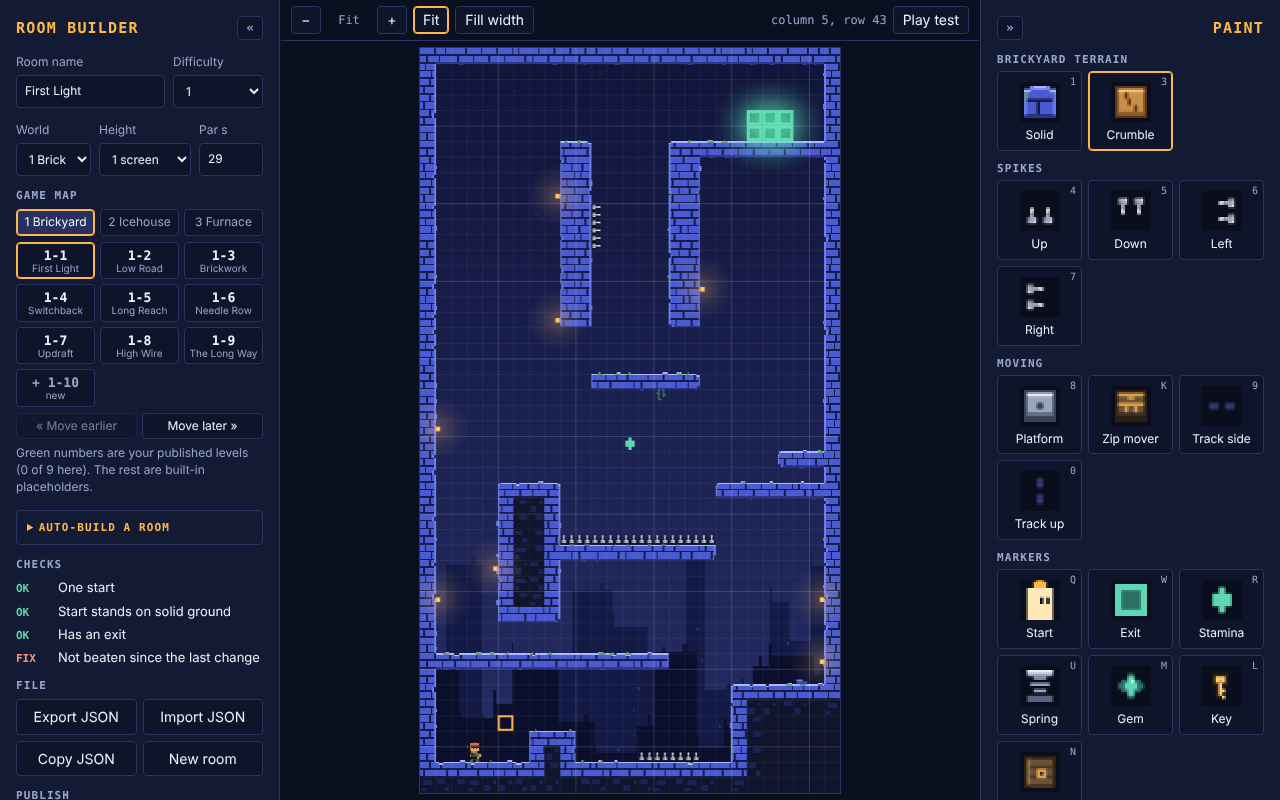
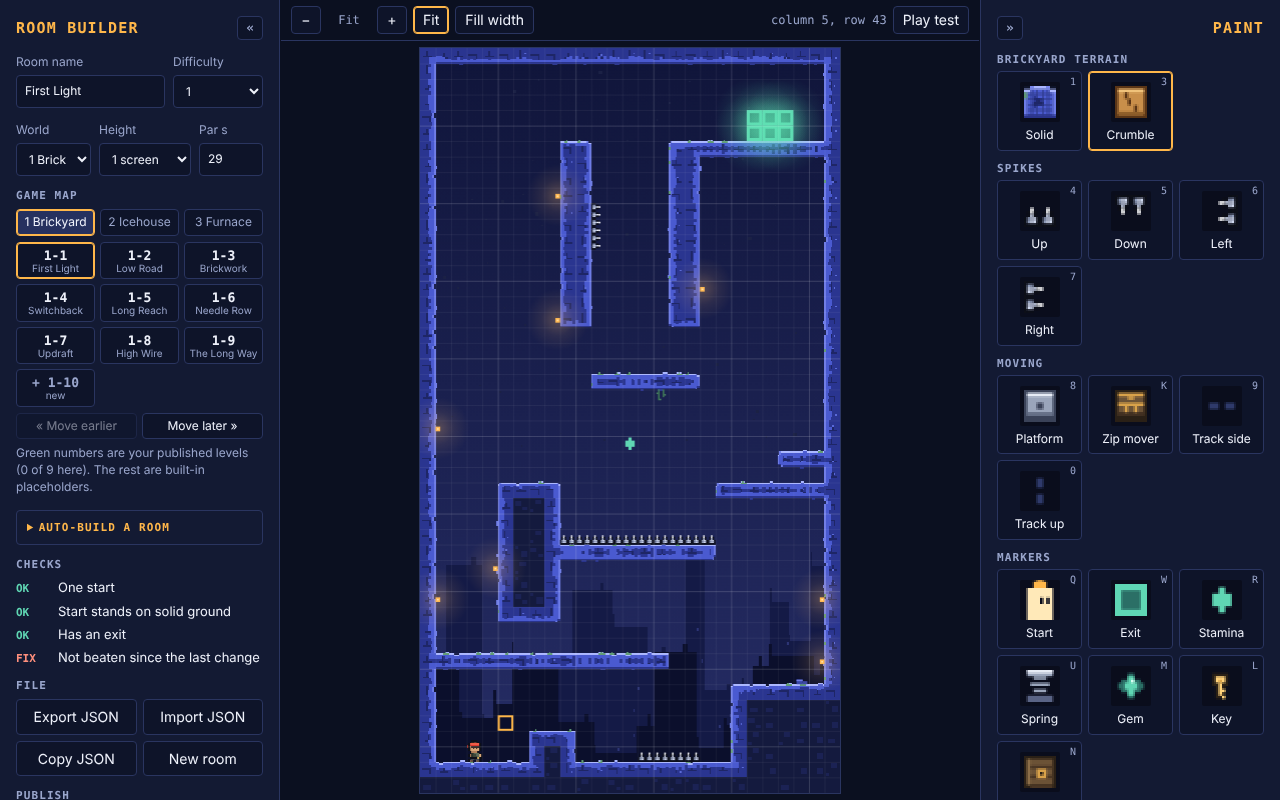
Walls drawn the Celeste way: lit rim, wandering face band, darker interior with sparse marks
The edge tile is no longer a repeating brick grid. It has the one pixel
rim, then a band of face colour two to five pixels deep whose inner edge
wanders along the wall, then a darker interior carrying one or two marks
per tile from four patterns: stone joints in the Brickyard, hairline
cracks and frost glints in the Icehouse, cracks with the odd ember in the
Furnace. Interior tiles get mottled blobs instead of fragments.

Claude-Session: https://claude.ai/code/session_01NZkKt2otoYDRNuWNpVBUzY

diff --git a/builder/index.html b/builder/index.html
@@ -250,9 +250,9 @@
   // so repeats do not show, and a ring of sparse "infill" detail just inside the edge. Each terrain type is its
   // own tileset with the same layout, so new looks can be swapped in without touching the rules.
   var TILESETS = {
-    brick: { face: '#4a5ad0', hi: '#aab6ff', side: '#6d7be6', lo: '#2a348c', line: '#161c4a', core: '#10142c', infill: '#1b2254', moss: '#5f9a74' },
-    frost: { face: '#587a9e', hi: '#f4fcff', side: '#86a9c9', lo: '#2a4361', line: '#172a41', core: '#0b1826', infill: '#14283c', snow: '#f4fcff', snowLo: '#b9d9ec', icicle: '#a8d6ee' },
-    ember: { face: '#8c3b2c', hi: '#ffb48c', side: '#b9573e', lo: '#4c1c15', line: '#2b0f0c', core: '#180a09', infill: '#2c1311', soot: '#2b0f0c', drip: '#d4531f', dripHi: '#ff9a3c' },
+    brick: { face: '#4a5ad0', deep: '#2a3590', hi: '#aab6ff', side: '#6d7be6', lo: '#2a348c', line: '#1e2666', core: '#141a3e', infill: '#1b2254', mark: '#5a6ad8', moss: '#5f9a74' },
+    frost: { face: '#587a9e', deep: '#345070', hi: '#f4fcff', side: '#86a9c9', lo: '#2a4361', line: '#243d58', core: '#0e1f33', infill: '#14283c', mark: '#7a9ab8', snow: '#f4fcff', snowLo: '#b9d9ec', icicle: '#a8d6ee' },
+    ember: { face: '#8c3b2c', deep: '#542016', hi: '#ffb48c', side: '#b9573e', lo: '#4c1c15', line: '#3a1410', core: '#1c0c0a', infill: '#2c1311', mark: '#a84a30', soot: '#2b0f0c', drip: '#d4531f', dripHi: '#ff9a3c' },
     ice:   { face: '#86cdee', hi: '#f2fdff', side: '#b9e8fa', lo: '#3f86bd', line: '#5eb0dd', core: '#102c44', infill: '#1b4866' }
   };
   var SOLID_KIND = { '#': 'brick', 'I': 'ice' };
@@ -270,13 +270,14 @@
       b.fillStyle = S.core; b.fillRect(x, y, 10, 10);
       var near = false;
       for (var dy = -2; dy <= 2 && !near; dy++) for (var dx = -2; dx <= 2; dx++) if (!solidAt(c + dx, r + dy)) { near = true; break; }
-      if (near && v > 0.15) { // infill ring: a fragment or two of the edge pattern, in a colour close to the fill
+      if (v > 0.3) {                                        // mottle: a blob or two of the lighter infill colour, denser near the edge
         b.fillStyle = S.infill;
-        var k = Math.floor(v * 4);
-        if (k === 0) { b.fillRect(x + 1, y + 1, 5, 3); b.fillRect(x + 6, y + 6, 3, 3); }
-        else if (k === 1) { b.fillRect(x + 4, y + 1, 5, 3); }
-        else if (k === 2) { b.fillRect(x + 1, y + 5, 4, 4); b.fillRect(x + 7, y + 2, 2, 2); }
-        else { b.fillRect(x + 2, y + 2, 6, 3); b.fillRect(x + 1, y + 7, 3, 2); }
+        var k = Math.floor(v * 5);
+        if (k === 1) { b.fillRect(x + 1, y + 2, 4, 3); b.fillRect(x + 6, y + 6, 3, 2); }
+        else if (k === 2) { b.fillRect(x + 4, y + 1, 4, 3); b.fillRect(x + 1, y + 7, 2, 2); }
+        else if (k === 3) { b.fillRect(x + 2, y + 5, 5, 3); }
+        else { b.fillRect(x + 5, y + 4, 4, 4); if (near) b.fillRect(x + 1, y + 1, 2, 2); }
+        if (!near && v > 0.6) { b.fillStyle = S.core; b.fillRect(x + 3, y + 3, 2, 2); }   // deeper in, the blobs thin out
       }
       return;
     }
@@ -290,11 +291,35 @@
       var gx = v < 0.34 ? 2 : (v < 0.67 ? 5 : 3);
       b.fillRect(x + gx + 1, y + 2, 1, 1); b.fillRect(x + gx, y + 3, 1, 1);
     } else {
-      b.fillStyle = S.line; b.fillRect(x, y, 10, 10);       // mortar, then two courses of brick with the joints shifted per variant
-      b.fillStyle = S.face;
-      var j1 = v < 0.34 ? 9 : (v < 0.67 ? 6 : 3), j2 = v < 0.34 ? 4 : (v < 0.67 ? 2 : 7);
-      b.fillRect(x, y, j1, 4); if (j1 < 9) b.fillRect(x + j1 + 1, y, 9 - j1, 4);
-      b.fillRect(x, y + 5, j2, 4); b.fillRect(x + j2 + 1, y + 5, 9 - j2, 4);
+      // Celeste-style edge tile: a lit rim, a band of face colour whose inner edge wanders, then the darker interior
+      // with one or two marks per tile (a mortar joint, a frost fleck, a crack) instead of a repeating pattern.
+      var cUL = !solidAt(c - 1, r - 1), cUR = !solidAt(c + 1, r - 1), cDL = !solidAt(c - 1, r + 1), cDR = !solidAt(c + 1, r + 1);
+      var t0 = 2 + Math.floor(v * 2), px, py, deep = [];
+      for (py = 0; py < 10; py++) for (px = 0; px < 10; px++) {
+        var d = 99;
+        if (up) d = Math.min(d, py); if (dn) d = Math.min(d, 9 - py); if (lf) d = Math.min(d, px); if (rt) d = Math.min(d, 9 - px);
+        if (cUL && !up && !lf) d = Math.min(d, Math.max(px, py)); if (cUR && !up && !rt) d = Math.min(d, Math.max(9 - px, py));
+        if (cDL && !dn && !lf) d = Math.min(d, Math.max(px, 9 - py)); if (cDR && !dn && !rt) d = Math.min(d, Math.max(9 - px, 9 - py));
+        var along = (up || dn) ? px : py, t = t0 + Math.floor(tileHash(c * 3 + (along >> 1), r * 5 + 1) * 3);   // 2 to 5 px, wandering along the edge
+        var isDeep = d >= t; deep.push(isDeep);
+        b.fillStyle = isDeep ? S.deep : S.face;
+        b.fillRect(x + px, y + py, 1, 1);
+      }
+      // a mark or two per tile, only in the interior band, in one of four patterns so no two tiles repeat side by side
+      var k = Math.floor(v * 4), marks = [], mi;
+      if (kind === 'brick') {                               // joints of large stones
+        marks = k === 0 ? [[2, 5, 6, 1], [4, 2, 1, 3]] : k === 1 ? [[1, 4, 5, 1], [6, 4, 1, 4]] : k === 2 ? [[3, 6, 5, 1], [5, 3, 1, 3]] : [[4, 1, 1, 6]];
+      } else if (kind === 'frost') {                        // hairline cracks and a frost fleck
+        marks = k === 0 ? [[3, 4, 1, 3], [4, 7, 2, 1]] : k === 1 ? [[2, 5, 3, 1], [6, 3, 1, 2]] : k === 2 ? [[5, 2, 1, 4]] : [[3, 6, 4, 1]];
+      } else {                                              // cracks running down through the rock
+        marks = k === 0 ? [[3, 2, 1, 3], [4, 5, 1, 3]] : k === 1 ? [[6, 3, 1, 2], [5, 5, 1, 3], [4, 8, 1, 1]] : k === 2 ? [[2, 4, 3, 1], [5, 5, 1, 2]] : [[6, 2, 1, 5]];
+      }
+      b.fillStyle = S.line;
+      for (mi = 0; mi < marks.length; mi++) { var m = marks[mi]; for (py = m[1]; py < m[1] + m[3]; py++) for (px = m[0]; px < m[0] + m[2]; px++) if (deep[py * 10 + px]) b.fillRect(x + px, y + py, 1, 1); }
+      if (v > 0.55) {                                       // a lighter fleck: a worn stone face, a frost glint, an ember in the crack
+        var fx = 2 + Math.floor(v * 6), fy = 3 + Math.floor((v * 13) % 4);
+        if (deep[fy * 10 + fx]) { b.fillStyle = kind === 'ember' && v > 0.85 ? S.dripHi : S.mark; b.fillRect(x + fx, y + fy, 1, 1); }
+      }
     }
     // one-pixel edge light: bright on top, dimmer on the sides, dark underneath
     if (lf) { b.fillStyle = S.side; b.fillRect(x, y, 1, 10); }

diff --git a/index.html b/index.html
@@ -58,9 +58,9 @@
   // so repeats do not show, and a ring of sparse "infill" detail just inside the edge. Each terrain type is its
   // own tileset with the same layout, so new looks can be swapped in without touching the rules.
   var TILESETS = {
-    brick: { face: '#4a5ad0', hi: '#aab6ff', side: '#6d7be6', lo: '#2a348c', line: '#161c4a', core: '#10142c', infill: '#1b2254', moss: '#5f9a74' },
-    frost: { face: '#587a9e', hi: '#f4fcff', side: '#86a9c9', lo: '#2a4361', line: '#172a41', core: '#0b1826', infill: '#14283c', snow: '#f4fcff', snowLo: '#b9d9ec', icicle: '#a8d6ee' },
-    ember: { face: '#8c3b2c', hi: '#ffb48c', side: '#b9573e', lo: '#4c1c15', line: '#2b0f0c', core: '#180a09', infill: '#2c1311', soot: '#2b0f0c', drip: '#d4531f', dripHi: '#ff9a3c' },
+    brick: { face: '#4a5ad0', deep: '#2a3590', hi: '#aab6ff', side: '#6d7be6', lo: '#2a348c', line: '#1e2666', core: '#141a3e', infill: '#1b2254', mark: '#5a6ad8', moss: '#5f9a74' },
+    frost: { face: '#587a9e', deep: '#345070', hi: '#f4fcff', side: '#86a9c9', lo: '#2a4361', line: '#243d58', core: '#0e1f33', infill: '#14283c', mark: '#7a9ab8', snow: '#f4fcff', snowLo: '#b9d9ec', icicle: '#a8d6ee' },
+    ember: { face: '#8c3b2c', deep: '#542016', hi: '#ffb48c', side: '#b9573e', lo: '#4c1c15', line: '#3a1410', core: '#1c0c0a', infill: '#2c1311', mark: '#a84a30', soot: '#2b0f0c', drip: '#d4531f', dripHi: '#ff9a3c' },
     ice:   { face: '#86cdee', hi: '#f2fdff', side: '#b9e8fa', lo: '#3f86bd', line: '#5eb0dd', core: '#102c44', infill: '#1b4866' }
   };
   var SOLID_KIND = { '#': 'brick', 'I': 'ice' };
@@ -78,13 +78,14 @@
       b.fillStyle = S.core; b.fillRect(x, y, 10, 10);
       var near = false;
       for (var dy = -2; dy <= 2 && !near; dy++) for (var dx = -2; dx <= 2; dx++) if (!solidAt(c + dx, r + dy)) { near = true; break; }
-      if (near && v > 0.15) { // infill ring: a fragment or two of the edge pattern, in a colour close to the fill
+      if (v > 0.3) {                                        // mottle: a blob or two of the lighter infill colour, denser near the edge
         b.fillStyle = S.infill;
-        var k = Math.floor(v * 4);
-        if (k === 0) { b.fillRect(x + 1, y + 1, 5, 3); b.fillRect(x + 6, y + 6, 3, 3); }
-        else if (k === 1) { b.fillRect(x + 4, y + 1, 5, 3); }
-        else if (k === 2) { b.fillRect(x + 1, y + 5, 4, 4); b.fillRect(x + 7, y + 2, 2, 2); }
-        else { b.fillRect(x + 2, y + 2, 6, 3); b.fillRect(x + 1, y + 7, 3, 2); }
+        var k = Math.floor(v * 5);
+        if (k === 1) { b.fillRect(x + 1, y + 2, 4, 3); b.fillRect(x + 6, y + 6, 3, 2); }
+        else if (k === 2) { b.fillRect(x + 4, y + 1, 4, 3); b.fillRect(x + 1, y + 7, 2, 2); }
+        else if (k === 3) { b.fillRect(x + 2, y + 5, 5, 3); }
+        else { b.fillRect(x + 5, y + 4, 4, 4); if (near) b.fillRect(x + 1, y + 1, 2, 2); }
+        if (!near && v > 0.6) { b.fillStyle = S.core; b.fillRect(x + 3, y + 3, 2, 2); }   // deeper in, the blobs thin out
       }
       return;
     }
@@ -98,11 +99,35 @@
       var gx = v < 0.34 ? 2 : (v < 0.67 ? 5 : 3);
       b.fillRect(x + gx + 1, y + 2, 1, 1); b.fillRect(x + gx, y + 3, 1, 1);
     } else {
-      b.fillStyle = S.line; b.fillRect(x, y, 10, 10);       // mortar, then two courses of brick with the joints shifted per variant
-      b.fillStyle = S.face;
-      var j1 = v < 0.34 ? 9 : (v < 0.67 ? 6 : 3), j2 = v < 0.34 ? 4 : (v < 0.67 ? 2 : 7);
-      b.fillRect(x, y, j1, 4); if (j1 < 9) b.fillRect(x + j1 + 1, y, 9 - j1, 4);
-      b.fillRect(x, y + 5, j2, 4); b.fillRect(x + j2 + 1, y + 5, 9 - j2, 4);
+      // Celeste-style edge tile: a lit rim, a band of face colour whose inner edge wanders, then the darker interior
+      // with one or two marks per tile (a mortar joint, a frost fleck, a crack) instead of a repeating pattern.
+      var cUL = !solidAt(c - 1, r - 1), cUR = !solidAt(c + 1, r - 1), cDL = !solidAt(c - 1, r + 1), cDR = !solidAt(c + 1, r + 1);
+      var t0 = 2 + Math.floor(v * 2), px, py, deep = [];
+      for (py = 0; py < 10; py++) for (px = 0; px < 10; px++) {
+        var d = 99;
+        if (up) d = Math.min(d, py); if (dn) d = Math.min(d, 9 - py); if (lf) d = Math.min(d, px); if (rt) d = Math.min(d, 9 - px);
+        if (cUL && !up && !lf) d = Math.min(d, Math.max(px, py)); if (cUR && !up && !rt) d = Math.min(d, Math.max(9 - px, py));
+        if (cDL && !dn && !lf) d = Math.min(d, Math.max(px, 9 - py)); if (cDR && !dn && !rt) d = Math.min(d, Math.max(9 - px, 9 - py));
+        var along = (up || dn) ? px : py, t = t0 + Math.floor(tileHash(c * 3 + (along >> 1), r * 5 + 1) * 3);   // 2 to 5 px, wandering along the edge
+        var isDeep = d >= t; deep.push(isDeep);
+        b.fillStyle = isDeep ? S.deep : S.face;
+        b.fillRect(x + px, y + py, 1, 1);
+      }
+      // a mark or two per tile, only in the interior band, in one of four patterns so no two tiles repeat side by side
+      var k = Math.floor(v * 4), marks = [], mi;
+      if (kind === 'brick') {                               // joints of large stones
+        marks = k === 0 ? [[2, 5, 6, 1], [4, 2, 1, 3]] : k === 1 ? [[1, 4, 5, 1], [6, 4, 1, 4]] : k === 2 ? [[3, 6, 5, 1], [5, 3, 1, 3]] : [[4, 1, 1, 6]];
+      } else if (kind === 'frost') {                        // hairline cracks and a frost fleck
+        marks = k === 0 ? [[3, 4, 1, 3], [4, 7, 2, 1]] : k === 1 ? [[2, 5, 3, 1], [6, 3, 1, 2]] : k === 2 ? [[5, 2, 1, 4]] : [[3, 6, 4, 1]];
+      } else {                                              // cracks running down through the rock
+        marks = k === 0 ? [[3, 2, 1, 3], [4, 5, 1, 3]] : k === 1 ? [[6, 3, 1, 2], [5, 5, 1, 3], [4, 8, 1, 1]] : k === 2 ? [[2, 4, 3, 1], [5, 5, 1, 2]] : [[6, 2, 1, 5]];
+      }
+      b.fillStyle = S.line;
+      for (mi = 0; mi < marks.length; mi++) { var m = marks[mi]; for (py = m[1]; py < m[1] + m[3]; py++) for (px = m[0]; px < m[0] + m[2]; px++) if (deep[py * 10 + px]) b.fillRect(x + px, y + py, 1, 1); }
+      if (v > 0.55) {                                       // a lighter fleck: a worn stone face, a frost glint, an ember in the crack
+        var fx = 2 + Math.floor(v * 6), fy = 3 + Math.floor((v * 13) % 4);
+        if (deep[fy * 10 + fx]) { b.fillStyle = kind === 'ember' && v > 0.85 ? S.dripHi : S.mark; b.fillRect(x + fx, y + fy, 1, 1); }
+      }
     }
     // one-pixel edge light: bright on top, dimmer on the sides, dark underneath
     if (lf) { b.fillStyle = S.side; b.fillRect(x, y, 1, 10); }

diff --git a/src/shared-tiles.js b/src/shared-tiles.js
@@ -4,9 +4,9 @@
   // so repeats do not show, and a ring of sparse "infill" detail just inside the edge. Each terrain type is its
   // own tileset with the same layout, so new looks can be swapped in without touching the rules.
   var TILESETS = {
-    brick: { face: '#4a5ad0', hi: '#aab6ff', side: '#6d7be6', lo: '#2a348c', line: '#161c4a', core: '#10142c', infill: '#1b2254', moss: '#5f9a74' },
-    frost: { face: '#587a9e', hi: '#f4fcff', side: '#86a9c9', lo: '#2a4361', line: '#172a41', core: '#0b1826', infill: '#14283c', snow: '#f4fcff', snowLo: '#b9d9ec', icicle: '#a8d6ee' },
-    ember: { face: '#8c3b2c', hi: '#ffb48c', side: '#b9573e', lo: '#4c1c15', line: '#2b0f0c', core: '#180a09', infill: '#2c1311', soot: '#2b0f0c', drip: '#d4531f', dripHi: '#ff9a3c' },
+    brick: { face: '#4a5ad0', deep: '#2a3590', hi: '#aab6ff', side: '#6d7be6', lo: '#2a348c', line: '#1e2666', core: '#141a3e', infill: '#1b2254', mark: '#5a6ad8', moss: '#5f9a74' },
+    frost: { face: '#587a9e', deep: '#345070', hi: '#f4fcff', side: '#86a9c9', lo: '#2a4361', line: '#243d58', core: '#0e1f33', infill: '#14283c', mark: '#7a9ab8', snow: '#f4fcff', snowLo: '#b9d9ec', icicle: '#a8d6ee' },
+    ember: { face: '#8c3b2c', deep: '#542016', hi: '#ffb48c', side: '#b9573e', lo: '#4c1c15', line: '#3a1410', core: '#1c0c0a', infill: '#2c1311', mark: '#a84a30', soot: '#2b0f0c', drip: '#d4531f', dripHi: '#ff9a3c' },
     ice:   { face: '#86cdee', hi: '#f2fdff', side: '#b9e8fa', lo: '#3f86bd', line: '#5eb0dd', core: '#102c44', infill: '#1b4866' }
   };
   var SOLID_KIND = { '#': 'brick', 'I': 'ice' };
@@ -24,13 +24,14 @@
       b.fillStyle = S.core; b.fillRect(x, y, 10, 10);
       var near = false;
       for (var dy = -2; dy <= 2 && !near; dy++) for (var dx = -2; dx <= 2; dx++) if (!solidAt(c + dx, r + dy)) { near = true; break; }
-      if (near && v > 0.15) { // infill ring: a fragment or two of the edge pattern, in a colour close to the fill
+      if (v > 0.3) {                                        // mottle: a blob or two of the lighter infill colour, denser near the edge
         b.fillStyle = S.infill;
-        var k = Math.floor(v * 4);
-        if (k === 0) { b.fillRect(x + 1, y + 1, 5, 3); b.fillRect(x + 6, y + 6, 3, 3); }
-        else if (k === 1) { b.fillRect(x + 4, y + 1, 5, 3); }
-        else if (k === 2) { b.fillRect(x + 1, y + 5, 4, 4); b.fillRect(x + 7, y + 2, 2, 2); }
-        else { b.fillRect(x + 2, y + 2, 6, 3); b.fillRect(x + 1, y + 7, 3, 2); }
+        var k = Math.floor(v * 5);
+        if (k === 1) { b.fillRect(x + 1, y + 2, 4, 3); b.fillRect(x + 6, y + 6, 3, 2); }
+        else if (k === 2) { b.fillRect(x + 4, y + 1, 4, 3); b.fillRect(x + 1, y + 7, 2, 2); }
+        else if (k === 3) { b.fillRect(x + 2, y + 5, 5, 3); }
+        else { b.fillRect(x + 5, y + 4, 4, 4); if (near) b.fillRect(x + 1, y + 1, 2, 2); }
+        if (!near && v > 0.6) { b.fillStyle = S.core; b.fillRect(x + 3, y + 3, 2, 2); }   // deeper in, the blobs thin out
       }
       return;
     }
@@ -44,11 +45,35 @@
       var gx = v < 0.34 ? 2 : (v < 0.67 ? 5 : 3);
       b.fillRect(x + gx + 1, y + 2, 1, 1); b.fillRect(x + gx, y + 3, 1, 1);
     } else {
-      b.fillStyle = S.line; b.fillRect(x, y, 10, 10);       // mortar, then two courses of brick with the joints shifted per variant
-      b.fillStyle = S.face;
-      var j1 = v < 0.34 ? 9 : (v < 0.67 ? 6 : 3), j2 = v < 0.34 ? 4 : (v < 0.67 ? 2 : 7);
-      b.fillRect(x, y, j1, 4); if (j1 < 9) b.fillRect(x + j1 + 1, y, 9 - j1, 4);
-      b.fillRect(x, y + 5, j2, 4); b.fillRect(x + j2 + 1, y + 5, 9 - j2, 4);
+      // Celeste-style edge tile: a lit rim, a band of face colour whose inner edge wanders, then the darker interior
+      // with one or two marks per tile (a mortar joint, a frost fleck, a crack) instead of a repeating pattern.
+      var cUL = !solidAt(c - 1, r - 1), cUR = !solidAt(c + 1, r - 1), cDL = !solidAt(c - 1, r + 1), cDR = !solidAt(c + 1, r + 1);
+      var t0 = 2 + Math.floor(v * 2), px, py, deep = [];
+      for (py = 0; py < 10; py++) for (px = 0; px < 10; px++) {
+        var d = 99;
+        if (up) d = Math.min(d, py); if (dn) d = Math.min(d, 9 - py); if (lf) d = Math.min(d, px); if (rt) d = Math.min(d, 9 - px);
+        if (cUL && !up && !lf) d = Math.min(d, Math.max(px, py)); if (cUR && !up && !rt) d = Math.min(d, Math.max(9 - px, py));
+        if (cDL && !dn && !lf) d = Math.min(d, Math.max(px, 9 - py)); if (cDR && !dn && !rt) d = Math.min(d, Math.max(9 - px, 9 - py));
+        var along = (up || dn) ? px : py, t = t0 + Math.floor(tileHash(c * 3 + (along >> 1), r * 5 + 1) * 3);   // 2 to 5 px, wandering along the edge
+        var isDeep = d >= t; deep.push(isDeep);
+        b.fillStyle = isDeep ? S.deep : S.face;
+        b.fillRect(x + px, y + py, 1, 1);
+      }
+      // a mark or two per tile, only in the interior band, in one of four patterns so no two tiles repeat side by side
+      var k = Math.floor(v * 4), marks = [], mi;
+      if (kind === 'brick') {                               // joints of large stones
+        marks = k === 0 ? [[2, 5, 6, 1], [4, 2, 1, 3]] : k === 1 ? [[1, 4, 5, 1], [6, 4, 1, 4]] : k === 2 ? [[3, 6, 5, 1], [5, 3, 1, 3]] : [[4, 1, 1, 6]];
+      } else if (kind === 'frost') {                        // hairline cracks and a frost fleck
+        marks = k === 0 ? [[3, 4, 1, 3], [4, 7, 2, 1]] : k === 1 ? [[2, 5, 3, 1], [6, 3, 1, 2]] : k === 2 ? [[5, 2, 1, 4]] : [[3, 6, 4, 1]];
+      } else {                                              // cracks running down through the rock
+        marks = k === 0 ? [[3, 2, 1, 3], [4, 5, 1, 3]] : k === 1 ? [[6, 3, 1, 2], [5, 5, 1, 3], [4, 8, 1, 1]] : k === 2 ? [[2, 4, 3, 1], [5, 5, 1, 2]] : [[6, 2, 1, 5]];
+      }
+      b.fillStyle = S.line;
+      for (mi = 0; mi < marks.length; mi++) { var m = marks[mi]; for (py = m[1]; py < m[1] + m[3]; py++) for (px = m[0]; px < m[0] + m[2]; px++) if (deep[py * 10 + px]) b.fillRect(x + px, y + py, 1, 1); }
+      if (v > 0.55) {                                       // a lighter fleck: a worn stone face, a frost glint, an ember in the crack
+        var fx = 2 + Math.floor(v * 6), fy = 3 + Math.floor((v * 13) % 4);
+        if (deep[fy * 10 + fx]) { b.fillStyle = kind === 'ember' && v > 0.85 ? S.dripHi : S.mark; b.fillRect(x + fx, y + fy, 1, 1); }
+      }
     }
     // one-pixel edge light: bright on top, dimmer on the sides, dark underneath
     if (lf) { b.fillStyle = S.side; b.fillRect(x, y, 1, 10); }
